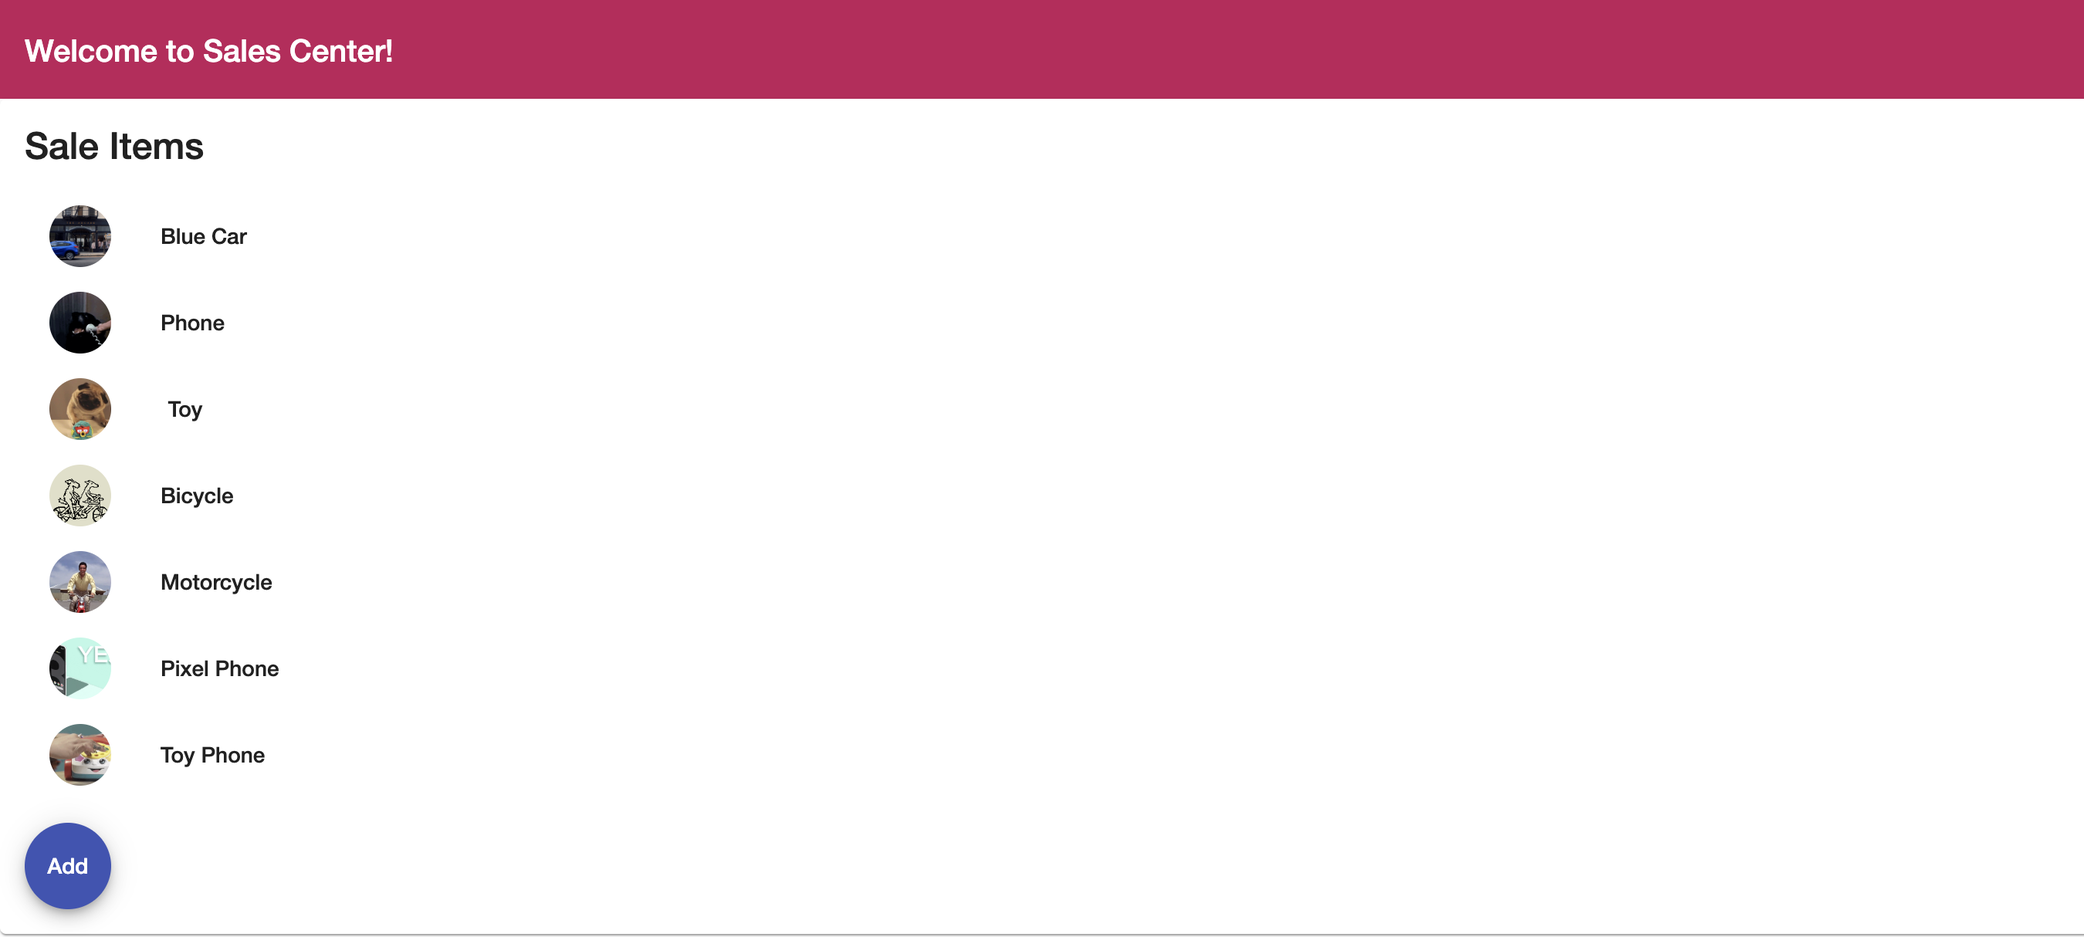
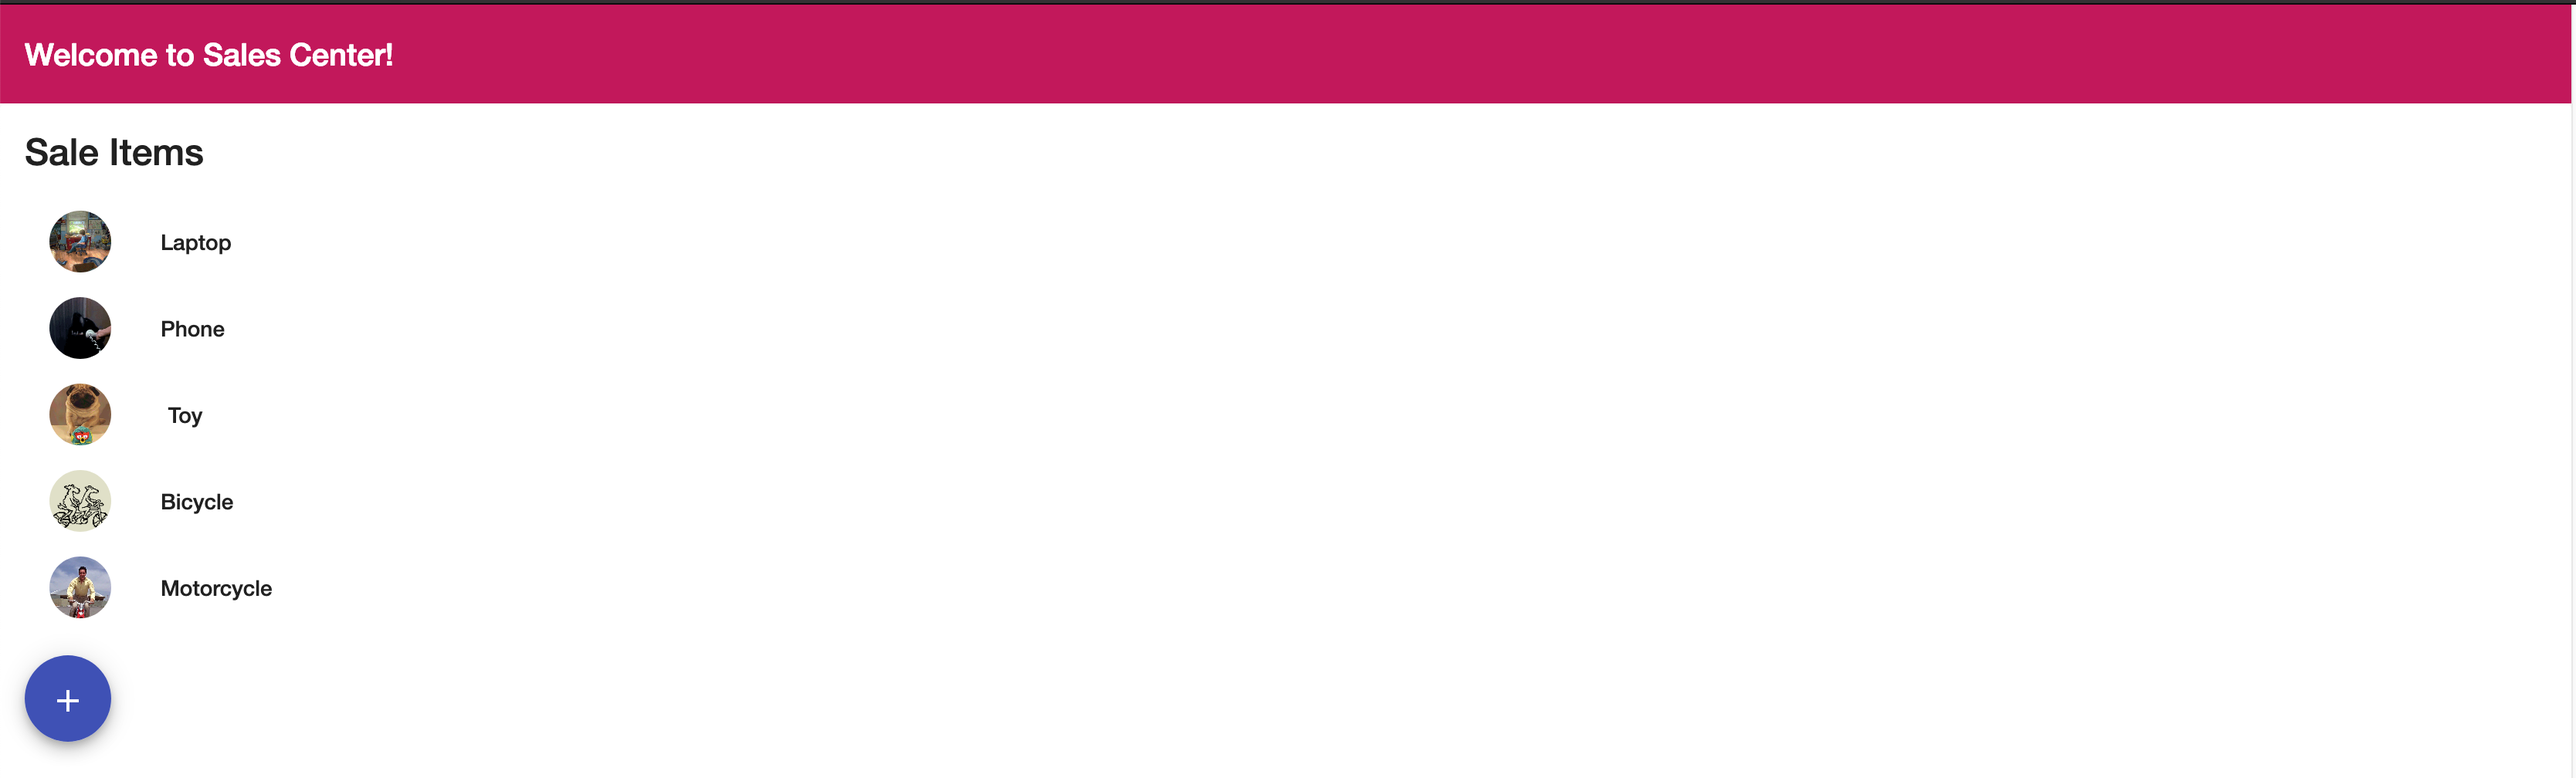
Added Okat authentication

Changed region(s): [[0.0, 0.0, 1.0, 1.0]]

diff --git a/sales-list-ui/src/app/app.module.ts b/sales-list-ui/src/app/app.module.ts
@@ -3,18 +3,28 @@ import { NgModule } from '@angular/core';
 
 import { AppRoutingModule } from './app-routing.module';
 import { AppComponent } from './app.component';
-import {HttpClientModule} from "@angular/common/http";
+import {HTTP_INTERCEPTORS, HttpClientModule} from "@angular/common/http";
 import { ItemListComponent } from './item-list/item-list.component';
 import {BrowserAnimationsModule} from "@angular/platform-browser/animations";
 import {MatButtonModule, MatCardModule, MatInputModule, MatListModule, MatToolbarModule} from "@angular/material";
 import { ItemEditComponent } from './item-edit/item-edit.component';
 import {FormsModule} from "@angular/forms";
+import {OktaAuthModule} from "@okta/okta-angular";
+import {OktaInterceptor} from "./shared/okta/okta-interceptor";
+import { LoginComponent } from './login/login.component';
+
+const config = {
+  issuer: 'https://dev-589122.oktapreview.com/oauth2/default',
+  redirectUri: 'http://localhost:4200/implicit/callback',
+  clientId: '0oakack7czvgDSwYa0h7'
+};
 
 @NgModule({
   declarations: [
     AppComponent,
     ItemListComponent,
-    ItemEditComponent
+    ItemEditComponent,
+    LoginComponent
   ],
   imports: [
     BrowserModule,
@@ -26,9 +36,10 @@ import {FormsModule} from "@angular/forms";
     MatCardModule,
     MatInputModule,
     MatListModule,
-    MatToolbarModule
+    MatToolbarModule,
+    OktaAuthModule.initAuth(config)
   ],
-  providers: [],
+  providers: [{provide: HTTP_INTERCEPTORS, useClass: OktaInterceptor, multi: true}],
   bootstrap: [AppComponent]
 })
 export class AppModule { }

diff --git a/sales-list-ui/src/app/shared/okta/okta-interceptor.ts b/sales-list-ui/src/app/shared/okta/okta-interceptor.ts
@@ -1,0 +1,35 @@
+import {HttpEvent, HttpHandler, HttpInterceptor, HttpRequest} from "@angular/common/http";
+import {OktaAuthService} from "@okta/okta-angular";
+import {from, Observable} from "rxjs";
+import {Injectable} from "@angular/core";
+
+@Injectable()
+export class OktaInterceptor implements HttpInterceptor {
+  constructor(private oktaAuth: OktaAuthService) {
+  }
+
+  intercept(request: HttpRequest<any>, next: HttpHandler): Observable<HttpEvent<any>> {
+    return from(this.handleAccess(request, next));
+  }
+
+  private async handleAccess(request: HttpRequest<any>, next: HttpHandler): Promise<HttpEvent<any>> {
+    //allow only known domains
+    if (OktaInterceptor.isAllowedDomain(request) > -1) {
+      const accessToken = await this.oktaAuth.getAccessToken();
+      request = OktaInterceptor.setAuthorizationHeader(request, accessToken);
+    }
+    return next.handle(request).toPromise();
+  }
+
+  private static setAuthorizationHeader(request: HttpRequest<any>, accessToken) {
+    return request.clone({
+      setHeaders: {
+        Authorization: 'Bearer ' + accessToken
+      }
+    });
+  }
+
+  private static isAllowedDomain(request: HttpRequest<any>) {
+    return request.urlWithParams.indexOf('localhost');
+  }
+}

diff --git a/sales-list-ui/src/app/login/login.component.ts b/sales-list-ui/src/app/login/login.component.ts
@@ -1,0 +1,29 @@
+import { Component, OnInit } from '@angular/core';
+import { OktaAuthService } from '@okta/okta-angular';
+import {ActivatedRoute, Router} from "@angular/router";
+
+@Component({
+  selector: 'app-home',
+  templateUrl: './login.component.html',
+  styleUrls: ['./login.component.css']
+})
+export class LoginComponent implements OnInit {
+  isAuthenticated: boolean;
+
+  constructor(private route: ActivatedRoute,
+              private router: Router,
+              private oktaAuth: OktaAuthService) {
+  }
+
+  async ngOnInit() {
+    this.isAuthenticated = await this.oktaAuth.isAuthenticated();
+    this.oktaAuth.$authenticationState.subscribe(
+      (isAuthenticated: boolean)  => this.isAuthenticated = isAuthenticated
+    );
+    if(this.isAuthenticated){
+      this.router.navigate(['/item-list']);
+    } else {
+      this.oktaAuth.loginRedirect();
+    }
+  }
+}

diff --git a/sales-list-ui/src/app/app-routing.module.ts b/sales-list-ui/src/app/app-routing.module.ts
@@ -2,8 +2,15 @@ import { NgModule } from '@angular/core';
 import { Routes, RouterModule } from '@angular/router';
 import {ItemEditComponent} from "./item-edit/item-edit.component";
 import {ItemListComponent} from "./item-list/item-list.component";
+import {OktaCallbackComponent} from "@okta/okta-angular";
+import {LoginComponent} from "./login/login.component";
 
 const routes: Routes = [
+  {path: '', redirectTo: '/home', pathMatch: 'full'},
+  {
+    path: 'home',
+    component: LoginComponent
+  },
   {
     path: 'item-list',
     component: ItemListComponent
@@ -15,6 +22,10 @@ const routes: Routes = [
   {
     path: 'item-edit/:id',
     component: ItemEditComponent
+  },
+  {
+    path: 'implicit/callback',
+    component: OktaCallbackComponent
   }
 ];
 

diff --git a/sales-list-ui/src/app/login/login.component.spec.ts b/sales-list-ui/src/app/login/login.component.spec.ts
@@ -1,0 +1,25 @@
+import { async, ComponentFixture, TestBed } from '@angular/core/testing';
+
+import { LoginComponent } from './login.component';
+
+describe('LoginComponent', () => {
+  let component: LoginComponent;
+  let fixture: ComponentFixture<LoginComponent>;
+
+  beforeEach(async(() => {
+    TestBed.configureTestingModule({
+      declarations: [ LoginComponent ]
+    })
+    .compileComponents();
+  }));
+
+  beforeEach(() => {
+    fixture = TestBed.createComponent(LoginComponent);
+    component = fixture.componentInstance;
+    fixture.detectChanges();
+  });
+
+  it('should create', () => {
+    expect(component).toBeTruthy();
+  });
+});

diff --git a/sales-list-ui/src/app/shared/item/item.service.ts b/sales-list-ui/src/app/shared/item/item.service.ts
@@ -6,13 +6,13 @@ import {Observable} from "rxjs";
   providedIn: 'root'
 })
 export class ItemService {
-  public API_URL = '//localhost:8080/';
+  public API_URL = '//localhost:8080';
   public ITEMS_API = this.API_URL + '/items';
   constructor(private http: HttpClient) { }
 
   getAll(): Observable<any> {
 
-    return this.http.get(this.API_URL + 'getItems');
+    return this.http.get(this.API_URL + '/getItems');
   }
 
   get(id: string) {

diff --git a/sales-list-ui/src/app/login/login.component.html b/sales-list-ui/src/app/login/login.component.html
@@ -1,0 +1,10 @@
+<mat-card>
+  <mat-card-content>
+    <button mat-raised-button color="accent" *ngIf="!isAuthenticated"
+            (click)="oktaAuth.loginRedirect()">Login
+    </button>
+    <button mat-raised-button color="accent" *ngIf="isAuthenticated"
+            [routerLink]="['/item-list']">Sale List
+    </button>
+  </mat-card-content>
+</mat-card>

diff --git a/sales-list-ui/src/app/app.component.html b/sales-list-ui/src/app/app.component.html
@@ -1,7 +1,9 @@
 <mat-toolbar color="primary">
   <span>Welcome to {{title}}!</span>
   <span class="toolbar-spacer"></span>
+  <button mat-raised-button color="accent" *ngIf="isAuthenticated"
+          (click)="oktaAuth.logout()" [routerLink]="['/home']">Logout
+  </button>
 </mat-toolbar>
 
-<app-item-list></app-item-list>
 <router-outlet></router-outlet>

diff --git a/sales-list-ui/src/app/item-list/item-list.component.html b/sales-list-ui/src/app/item-list/item-list.component.html
@@ -10,5 +10,7 @@
       </mat-list-item>
     </mat-list>
   </mat-card-content>
-  <button mat-fab color="primary" [routerLink]="['/item-add']">Add</button>
+  <button class="mdc-fab mdc-fab--extended" mat-fab color="primary" [routerLink]="['/item-add']">
+    <span class="material-icons mdc-fab__icon">add</span>
+  </button>
 </mat-card>

diff --git a/sales-list-ui/src/app/shared/okta/okta-interceptor.spec.ts b/sales-list-ui/src/app/shared/okta/okta-interceptor.spec.ts
@@ -1,0 +1,7 @@
+import { OktaInterceptor } from './okta-interceptor';
+
+describe('Okta Interceptor', () => {
+  it('should create an instance', () => {
+    expect(new OktaInterceptor()).toBeTruthy();
+  });
+});

diff --git a/sales-list-ui/src/styles.css b/sales-list-ui/src/styles.css
@@ -5,3 +5,7 @@ body {
   margin: 0;
   font-family: Roboto, sans-serif;
 }
+
+mat-card {
+  height: 100vh;
+}

diff --git a/sales-list-ui/src/app/app.component.css b/sales-list-ui/src/app/app.component.css
@@ -1,3 +1,3 @@
-.toolbar-spacer {
+.toolbar {
   flex: 1 1 auto;
 }
